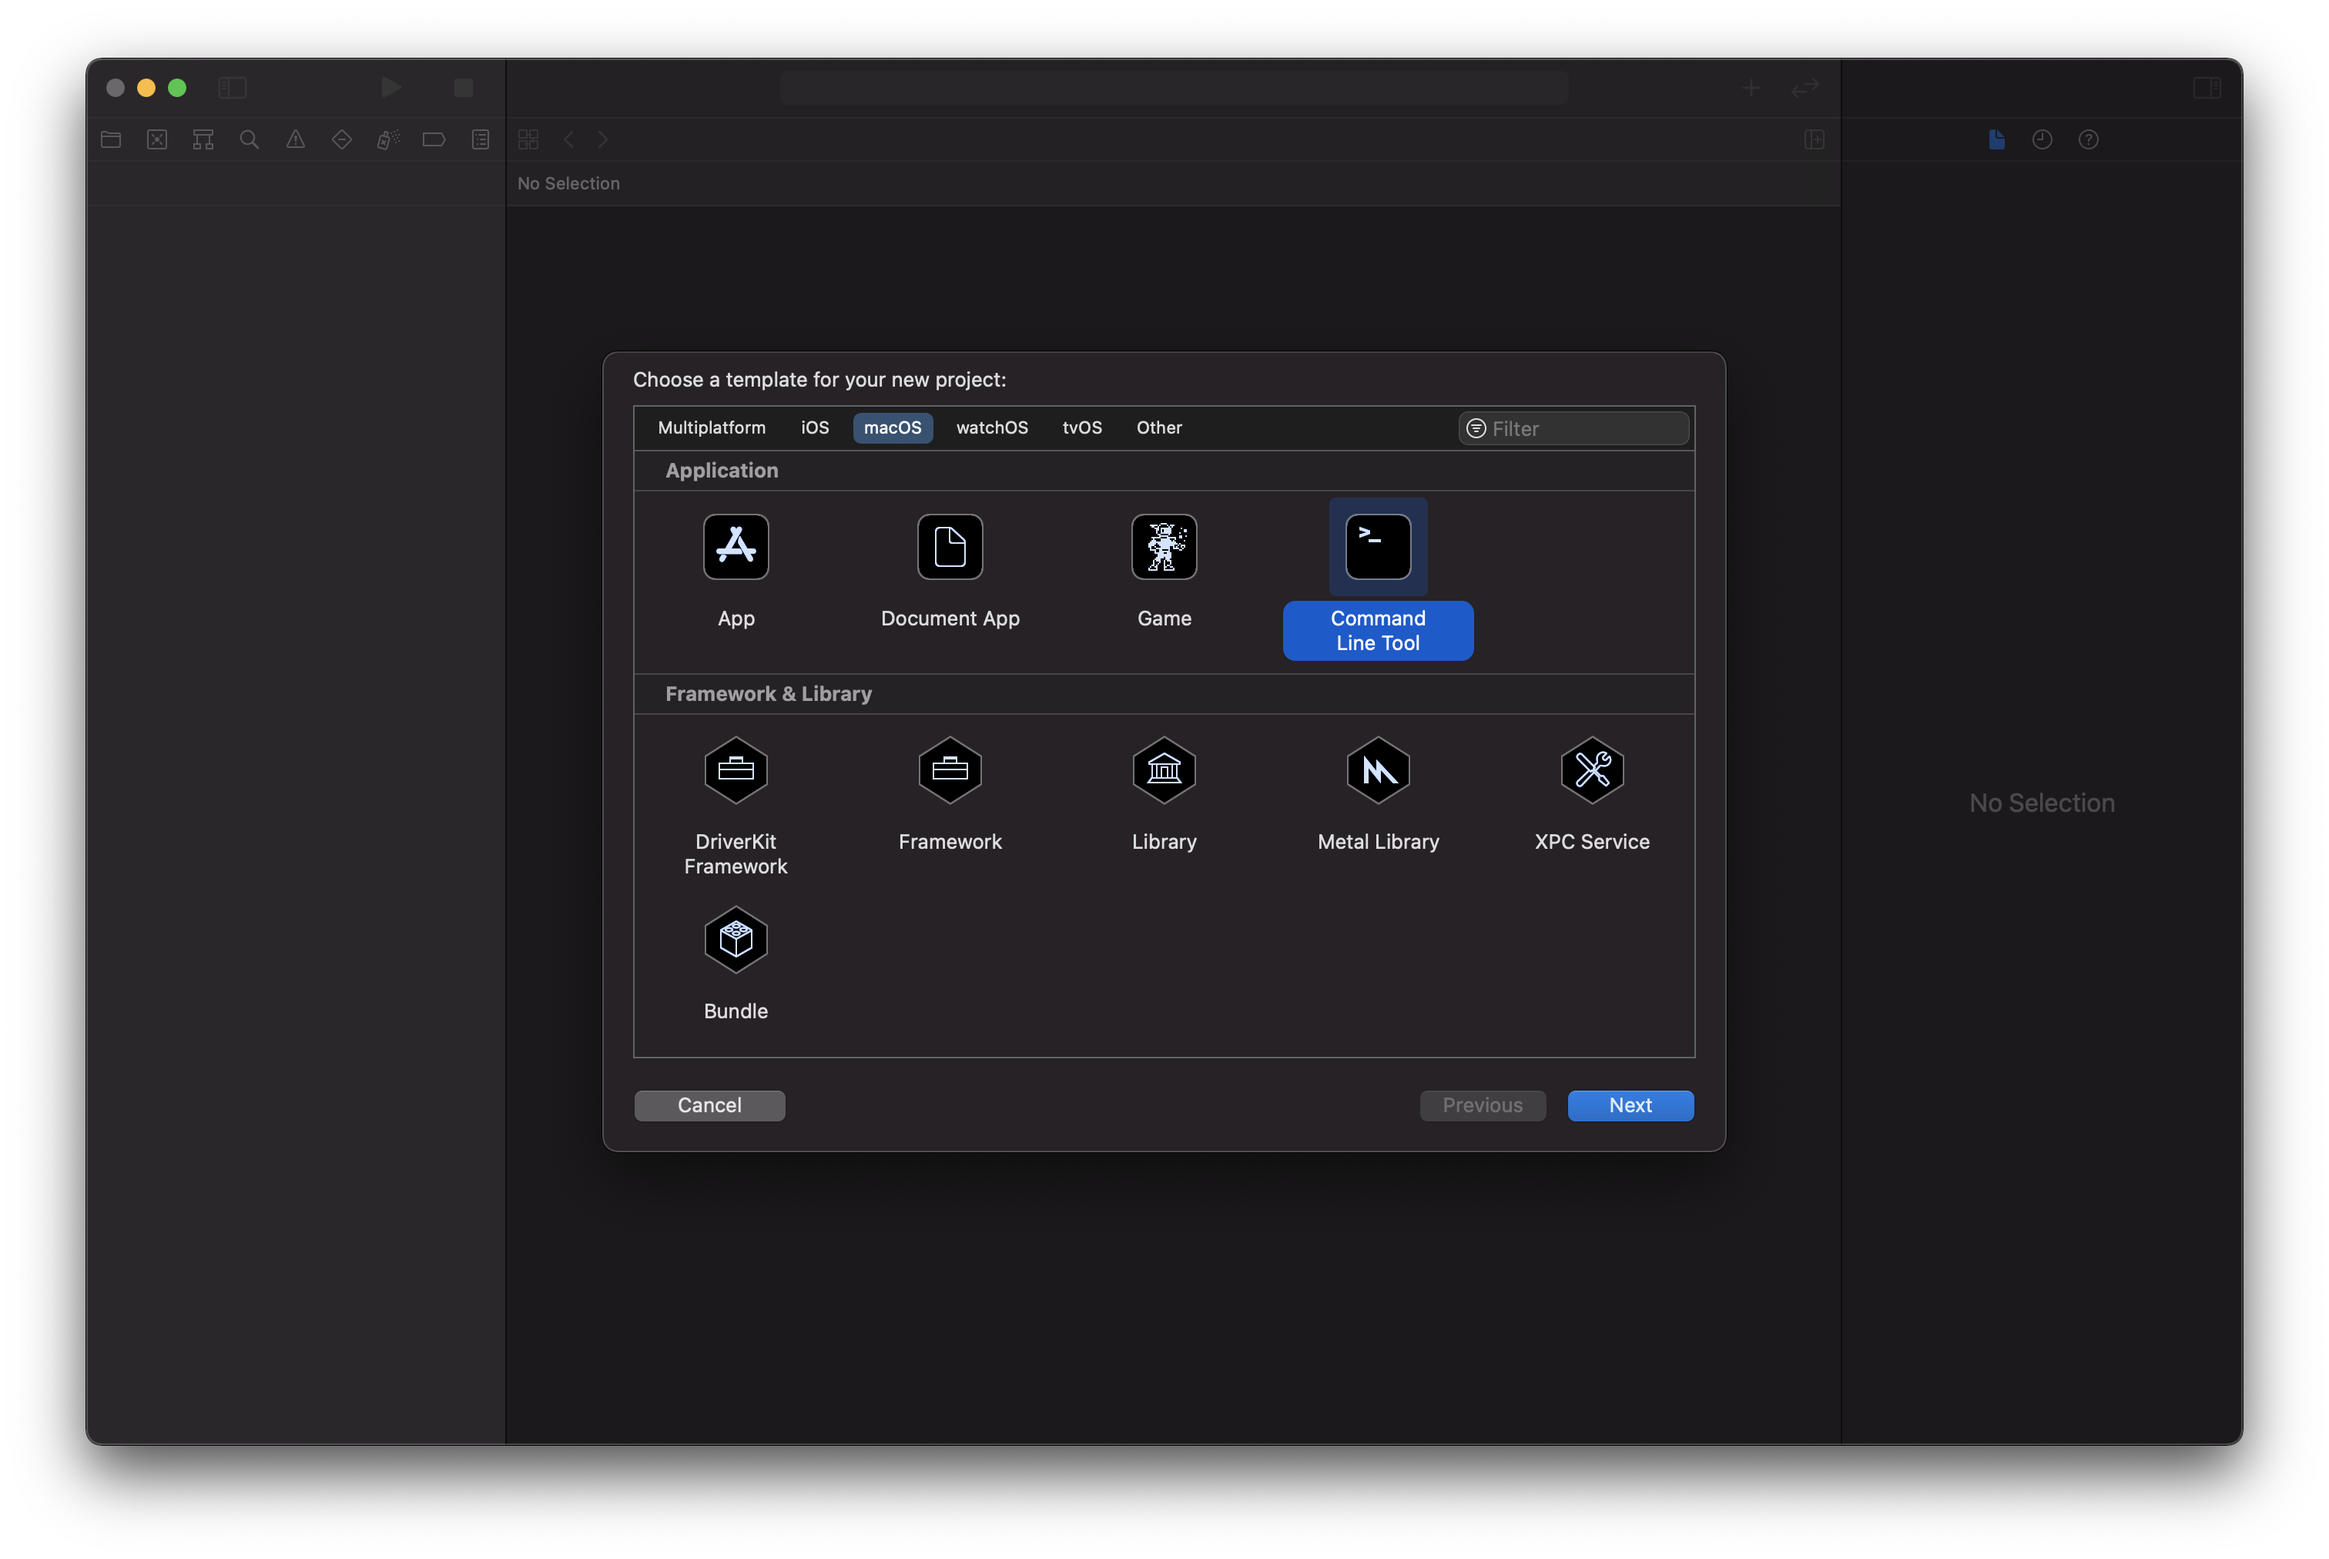
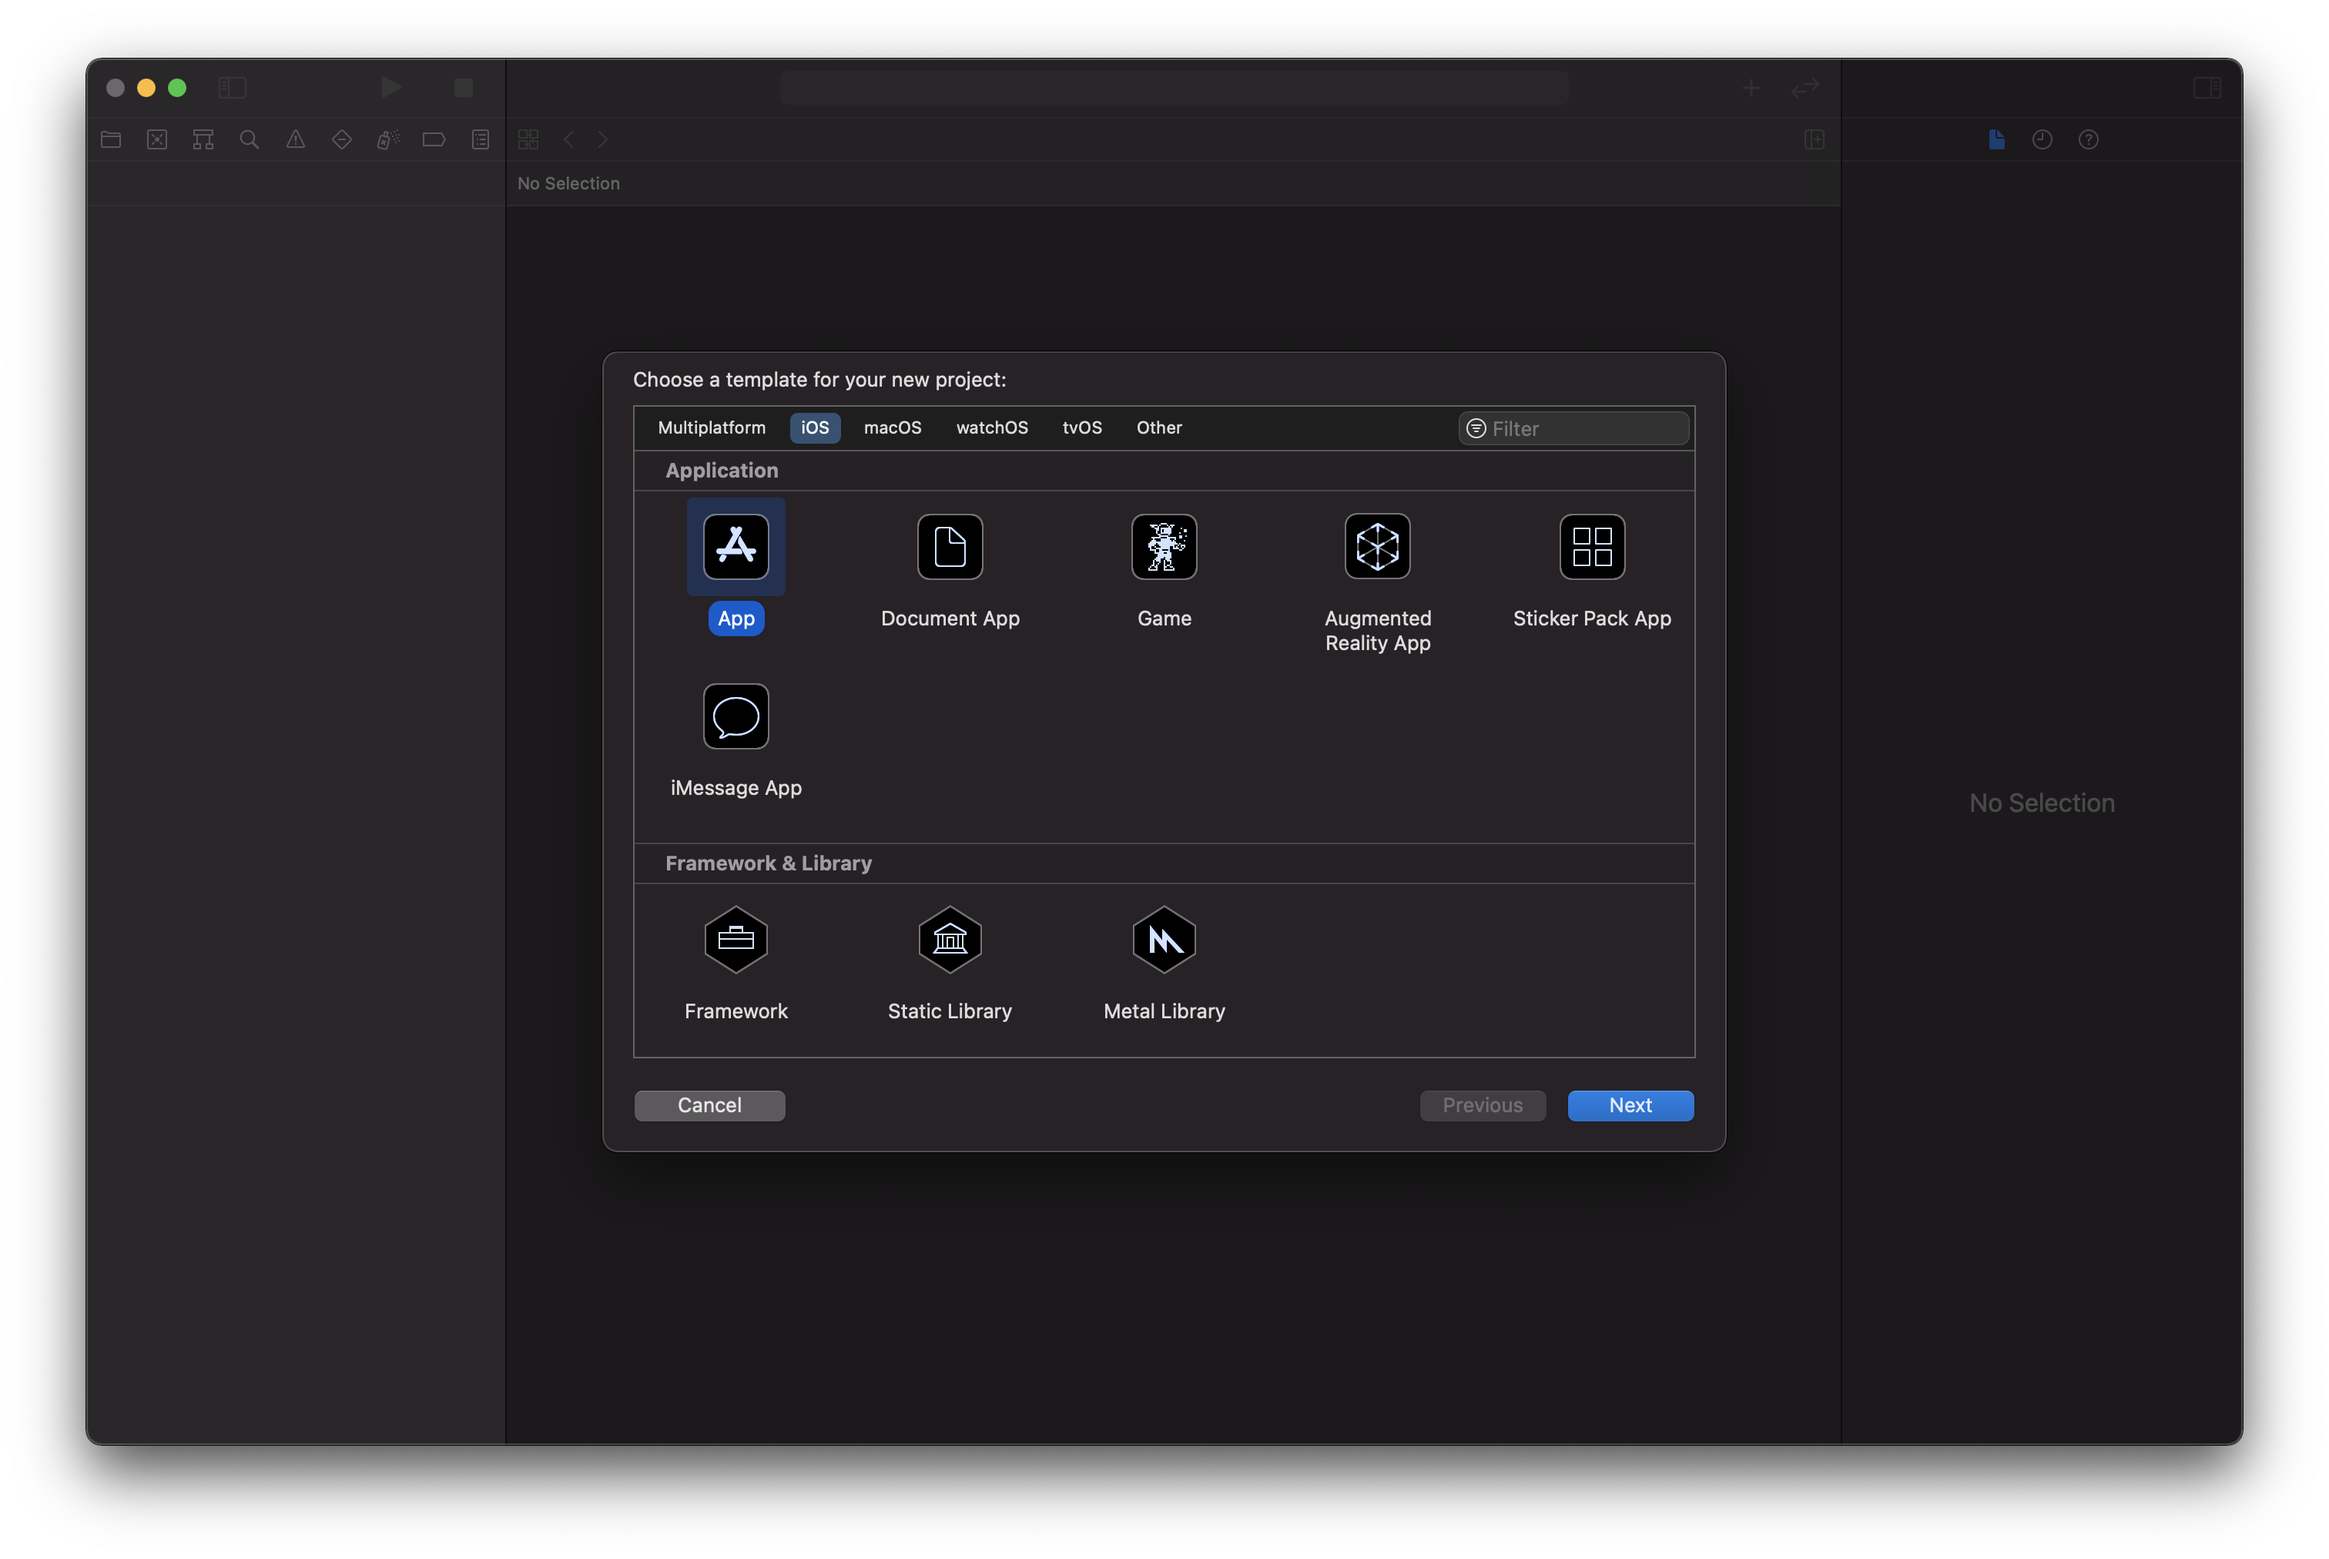
fix: setup Xcode 파일이 App 프로젝트를 생성하도록 수정

diff --git a/NetworkTestTutorial/NetworkTestTutorial.docc/PracticeCode/NetworkingWithURLSession-SetupXcode-Section1/ViewController.swift b/NetworkTestTutorial/NetworkTestTutorial.docc/PracticeCode/NetworkingWithURLSession-SetupXcode-Section1/ViewController.swift
@@ -1,0 +1,9 @@
+import Foundation
+
+class ViewController: UIViewController {
+
+    override func viewDidLoad() {
+        super.viewDidLoad()
+        print("Hello")
+    }
+}
